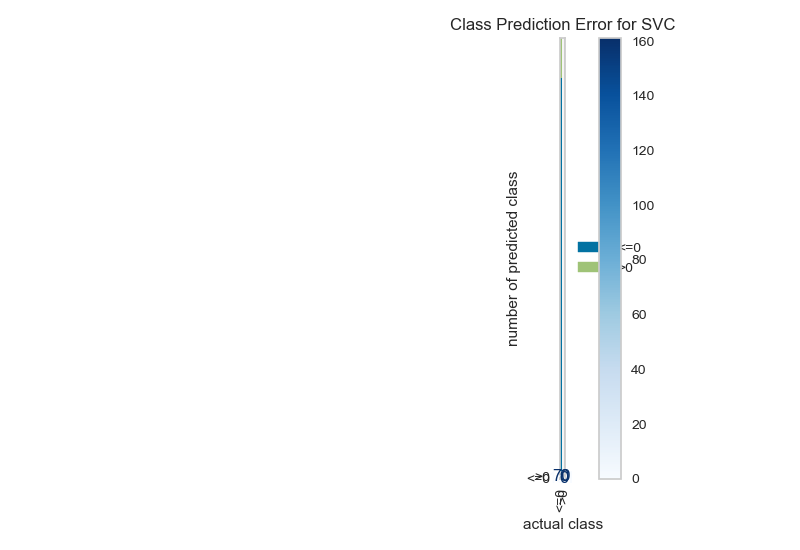
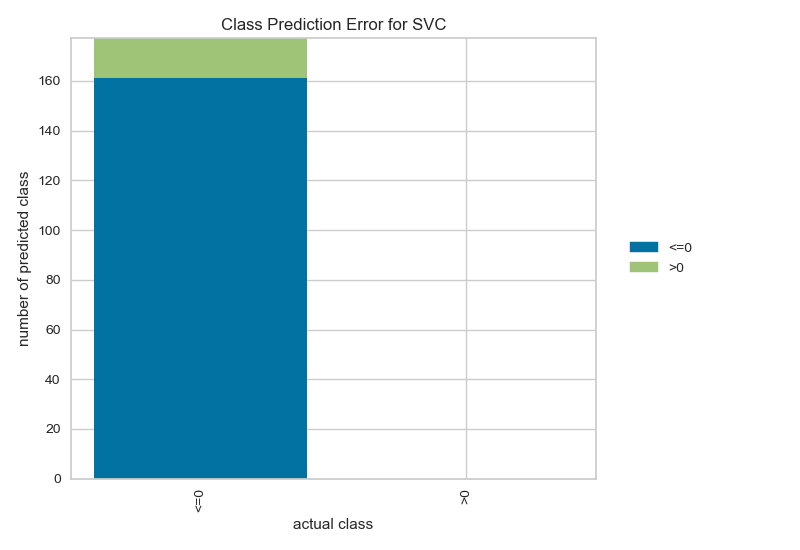
optimal svm

Changed region(s): [[0.0, 0.0309, 0.875, 0.9582], [0.625, 0.3091, 0.6562, 0.6182], [0.375, 0.9273, 0.4688, 0.9582]]

diff --git a/models.py b/models.py
@@ -65,7 +65,7 @@ def run_random_forest(X, X_addl, use_X_addl, num_days_performance, lower_thresho
 
     cv_splits = model_helpers.get_cv_splits(X_train, initial_train_size, val_size)
     results = model_helpers.do_hyperparameter_grid_search(rf_clf, rf_hyperparams, X_train_optimal_features, y_train,
-                                                          cv_splits, 'roc_auc_ovo', 'random-forest-grid-search')
+                                                          cv_splits, 'roc_auc_ovo', 'random-forest')
 
     print('The results of the random forest hyperparameter grid search are as follows:')
     print(results)
@@ -127,13 +127,13 @@ def run_svm(X, X_addl, use_X_addl, num_days_performance, lower_threshold, upper_
     cv_splits = model_helpers.get_cv_splits(X_train, initial_train_size, val_size)
 
     results = model_helpers.do_hyperparameter_grid_search(svm_clf, svm_hyperparams, X_train_optimal_features, y_train,
-                                                          cv_splits, 'accuracy', 'svm-grid-search')
+                                                          cv_splits, 'accuracy', 'svm')
 
     print('The results of the SVM hyperparameter grid search are as follows:')
     print(results)
 
     # Run the SVM again on the optimal set of hyperparameters
-    svm_clf = SVC(kernel='poly', C=10.0, random_state=7)
+    svm_clf = SVC(kernel='sigmoid', C=0.5, random_state=7)
     svm_clf.fit(X_train_optimal_features, y_train)
 
     model_helpers.show_model_stats(svm_clf, X_train_optimal_features, y_train, X_test_optimal_features, y_test, labels,
